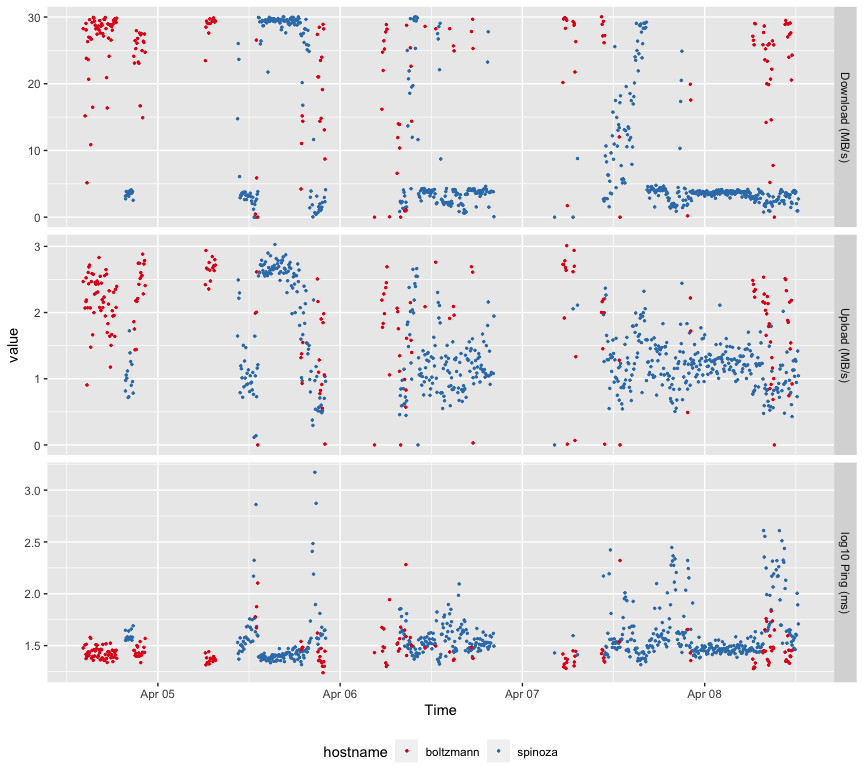
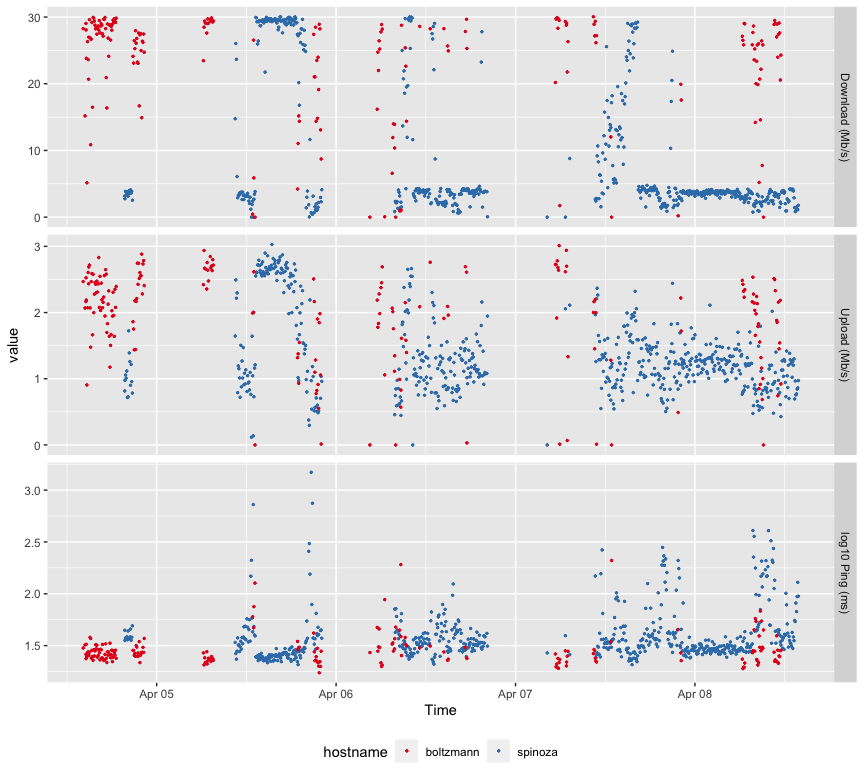
Fixed units.

diff --git a/README.md b/README.md
@@ -30,14 +30,14 @@ and add a line similar to:
 
 
 ```sh
- */5 * * * * /Users/whuber/huber/users/huber/speedtest/run-speedtest-cli.sh
+ */5 * * * * /Users/whuber/svnco/speedtest/run-speedtest-cli.sh
 ```
 
 This will run the shell script `run-speedtest-cli.sh`, which is provided in a separate file, every five 5 minutes. Of course you'll have to adapt the file path to your local setup. Check the documentation of `crontab` if you want to run it at different times or intervals. Make sure the file is executable, with e.g.
 
 
 ```sh
-chmod 755 /Users/whuber/huber/users/huber/speedtest/run-speedtest-cli.sh
+chmod 755 /Users/whuber/svnco/speedtest/run-speedtest-cli.sh
 ```
 
 
@@ -70,10 +70,10 @@ st = lapply(hosts, function(h) {
 for (j in c("Timestamp", "Download", "Upload", "Ping"))
   stopifnot(all(is.finite(st[[j]])))
 
-variables = c("Download (MB/s)", "Upload (MB/s)", "log10 Ping (ms)")
+variables = c("Download (Mb/s)", "Upload (Mb/s)", "log10 Ping (ms)")
 st %<>% mutate(
-  `Download (MB/s)` = Download / 2^20,
-  `Upload (MB/s)` = Upload / 2^20,
+  `Download (Mb/s)` = Download / 2^20,
+  `Upload (Mb/s)` = Upload / 2^20,
   `log10 Ping (ms)` = log10(Ping)) %>% 
    pivot_longer(cols = all_of(variables))
 st$name %<>% factor(levels = variables)
